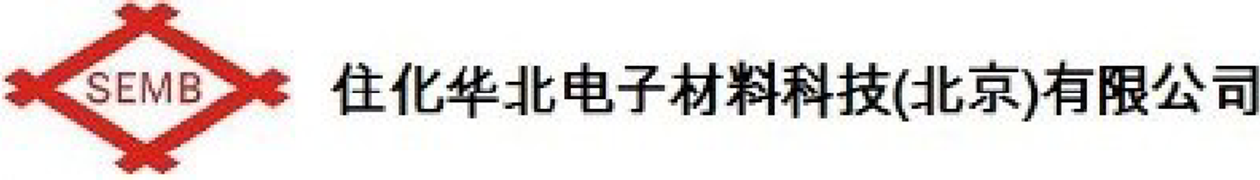
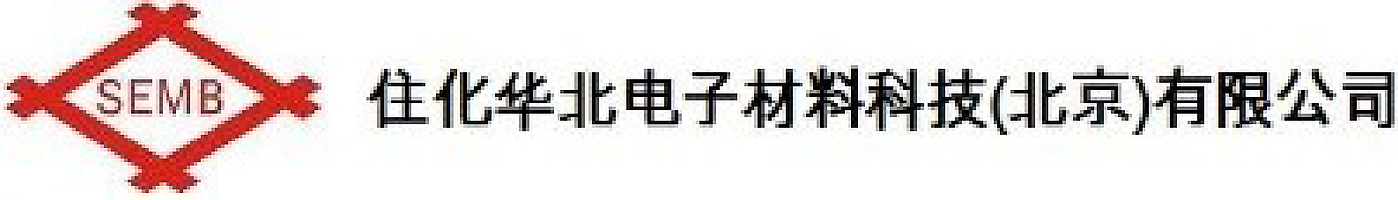
feat: 로고 호버 강조 · 화질 개선
호버하면 띠가 멈추고 그 로고만 떠오르며 그림자가 생깁니다.
멈추기만 하면 어디를 보고 있는지 표시가 나지 않아 그림자로 하나를
집어줍니다. 움직임을 꺼둔 사용자에게는 떠오름 없이 그림자만 남습니다.

화질 - PDF를 12배로 다시 렌더링해 원본 해상도를 두 배로 올렸습니다.
이전에는 6배에서 뽑은 571x93을 180px 높이로 늘려 쓰고 있었습니다.
이제 1142x187을 200px로 거의 그대로 씁니다.

공식 사이트도 확인했지만 동우화인켐 로고는 242x30으로 오히려 작았고
TUNGHSU 사이트는 접속되지 않았습니다.

Changed region(s): [[0.0, 0.3056, 1.0, 0.6667], [0.0619, 0.6389, 0.1857, 0.9722], [0.0929, 0.0, 0.1548, 0.25]]

diff --git a/components/sections/ClientLogos.tsx b/components/sections/ClientLogos.tsx
@@ -92,9 +92,15 @@ export default function ClientLogos() {
             <li key={copy} aria-hidden={copy > 0} className="flex shrink-0">
               {logoMode
                 ? CLIENT_LOGOS.map((logo) => (
+                    /*
+                       커서를 올리면 띠가 멈추고(.marquee-viewport:hover) 그 로고만
+                       떠오릅니다. 멈추기만 하면 어디를 보고 있는지 표시가 나지 않아
+                       그림자로 지금 보는 하나를 집어줍니다.
+                       움직임을 꺼둔 사용자에게는 떠오름 없이 그림자만 남습니다.
+                    */
                     <span
                       key={logo.id}
-                      className="mx-8 flex h-14 shrink-0 items-center lg:mx-11 lg:h-16"
+                      className="mx-5 flex shrink-0 items-center rounded-xl px-6 py-3 transition duration-300 ease-out hover:shadow-[0_10px_30px_rgba(0,48,96,0.16)] motion-safe:hover:-translate-y-1 lg:mx-7 lg:px-8"
                     >
                       <Image
                         src={logo.src}
@@ -106,7 +112,7 @@ export default function ClientLogos() {
                            회색으로 눕히면 어느 회사인지 한 박자 늦게 읽힙니다.
                            높이만 맞추고 가로는 비율대로 둡니다 — 억지로 같은 폭에
                            넣으면 가로로 긴 로고가 찌그러집니다. */
-                        className="h-full w-auto max-w-none"
+                        className="h-14 w-auto max-w-none lg:h-16"
                       />
                     </span>
                   ))

diff --git a/content/site.ts b/content/site.ts
@@ -131,10 +131,10 @@ export type ClientLogo = {
 };
 
 export const CLIENT_LOGOS: ReadonlyArray<ClientLogo> = [
-  { id: 'dongwoo', name: '동우화인켐', src: '/images/clients/dongwoo.png', width: 1105, height: 180 },
-  { id: 'tunghsu', name: 'TUNGHSU GROUP', src: '/images/clients/tunghsu.png', width: 677, height: 180 },
-  { id: 'semv', name: 'SEMV', src: '/images/clients/semv.png', width: 680, height: 180 },
-  { id: 'semb', name: 'SEMB', src: '/images/clients/semb.png', width: 1260, height: 180 },
+  { id: 'dongwoo', name: '동우화인켐', src: '/images/clients/dongwoo.png', width: 1221, height: 200 },
+  { id: 'tunghsu', name: 'TUNGHSU GROUP', src: '/images/clients/tunghsu.png', width: 754, height: 200 },
+  { id: 'semv', name: 'SEMV', src: '/images/clients/semv.png', width: 753, height: 200 },
+  { id: 'semb', name: 'SEMB', src: '/images/clients/semb.png', width: 1398, height: 200 },
 ];
 
 /* ────────────────────────────────────────────────────────────
